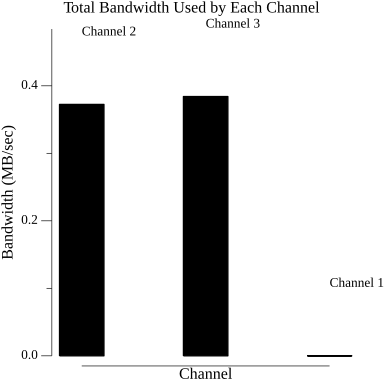
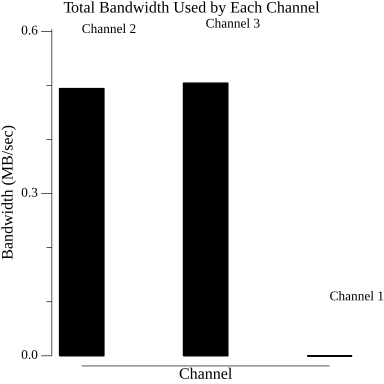
chore: bump

diff --git a/p2p/load/transport_bench_test.go b/p2p/load/transport_bench_test.go
@@ -49,20 +49,23 @@ func TestTransportBench(t *testing.T) {
 	require.NoError(t, err)
 	time.Sleep(1 * time.Second) // wait for the nodes to connect
 
-	// reactor1.FillChannel(SecondChannel, 1000, 10000)
-	// reactor1.FillChannel(ThirdChannel, 1000, 10000)
-	time.Sleep(100 * time.Millisecond)     // wait for the messages to start sending
+	reactor1.FillChannel(SecondChannel, 1000, 10000)
+	reactor1.FillChannel(ThirdChannel, 1000, 10000)
+
+	time.Sleep(100 * time.Millisecond) // wait for the messages to start sending
+
 	reactor1.SendBytes(FirstChannel, 2000) // send a messasge on the first channel and see how long it takes to receive
 	sendTime = time.Now()
 	time.Sleep(5 * time.Second) // wait for the messages to be send
 	require.Greater(t, len(reactor2.Traces), 0)
-	// VizBandwidth("test.png", reactor2.Traces)
+
+	VizBandwidth("test.png", reactor2.Traces)
 	// VizTotalBandwidth("test2.png", reactor2.Traces)
-	for _, m := range reactor2.Traces {
-		if m.Channel == FirstChannel {
-			fmt.Println(m.ReceiveTime.Sub(sendTime).Milliseconds())
-		}
-	}
+	// for _, m := range reactor2.Traces {
+	// 	if m.Channel == FirstChannel {
+	// 		fmt.Println(m.ReceiveTime.Sub(sendTime).Milliseconds())
+	// 	}
+	// }
 }
 
 /*

diff --git a/p2p/load/mock_reactor.go b/p2p/load/mock_reactor.go
@@ -165,3 +165,15 @@ func (mr *MockReactor) FillChannel(chID byte, count, msgSize int) (bool, int, ti
 	end := time.Now()
 	return true, count, end.Sub(start)
 }
+
+func (mr *MockReactor) FloodChannel(wg *sync.WaitGroup, chID byte, d time.Duration) {
+	wg.Add(1)
+	go func(d time.Duration) {
+		start := time.Now()
+		defer wg.Done()
+		for time.Since(start) < d {
+			mr.SendBytes(chID, 10000000)
+		}
+
+	}(d)
+}
